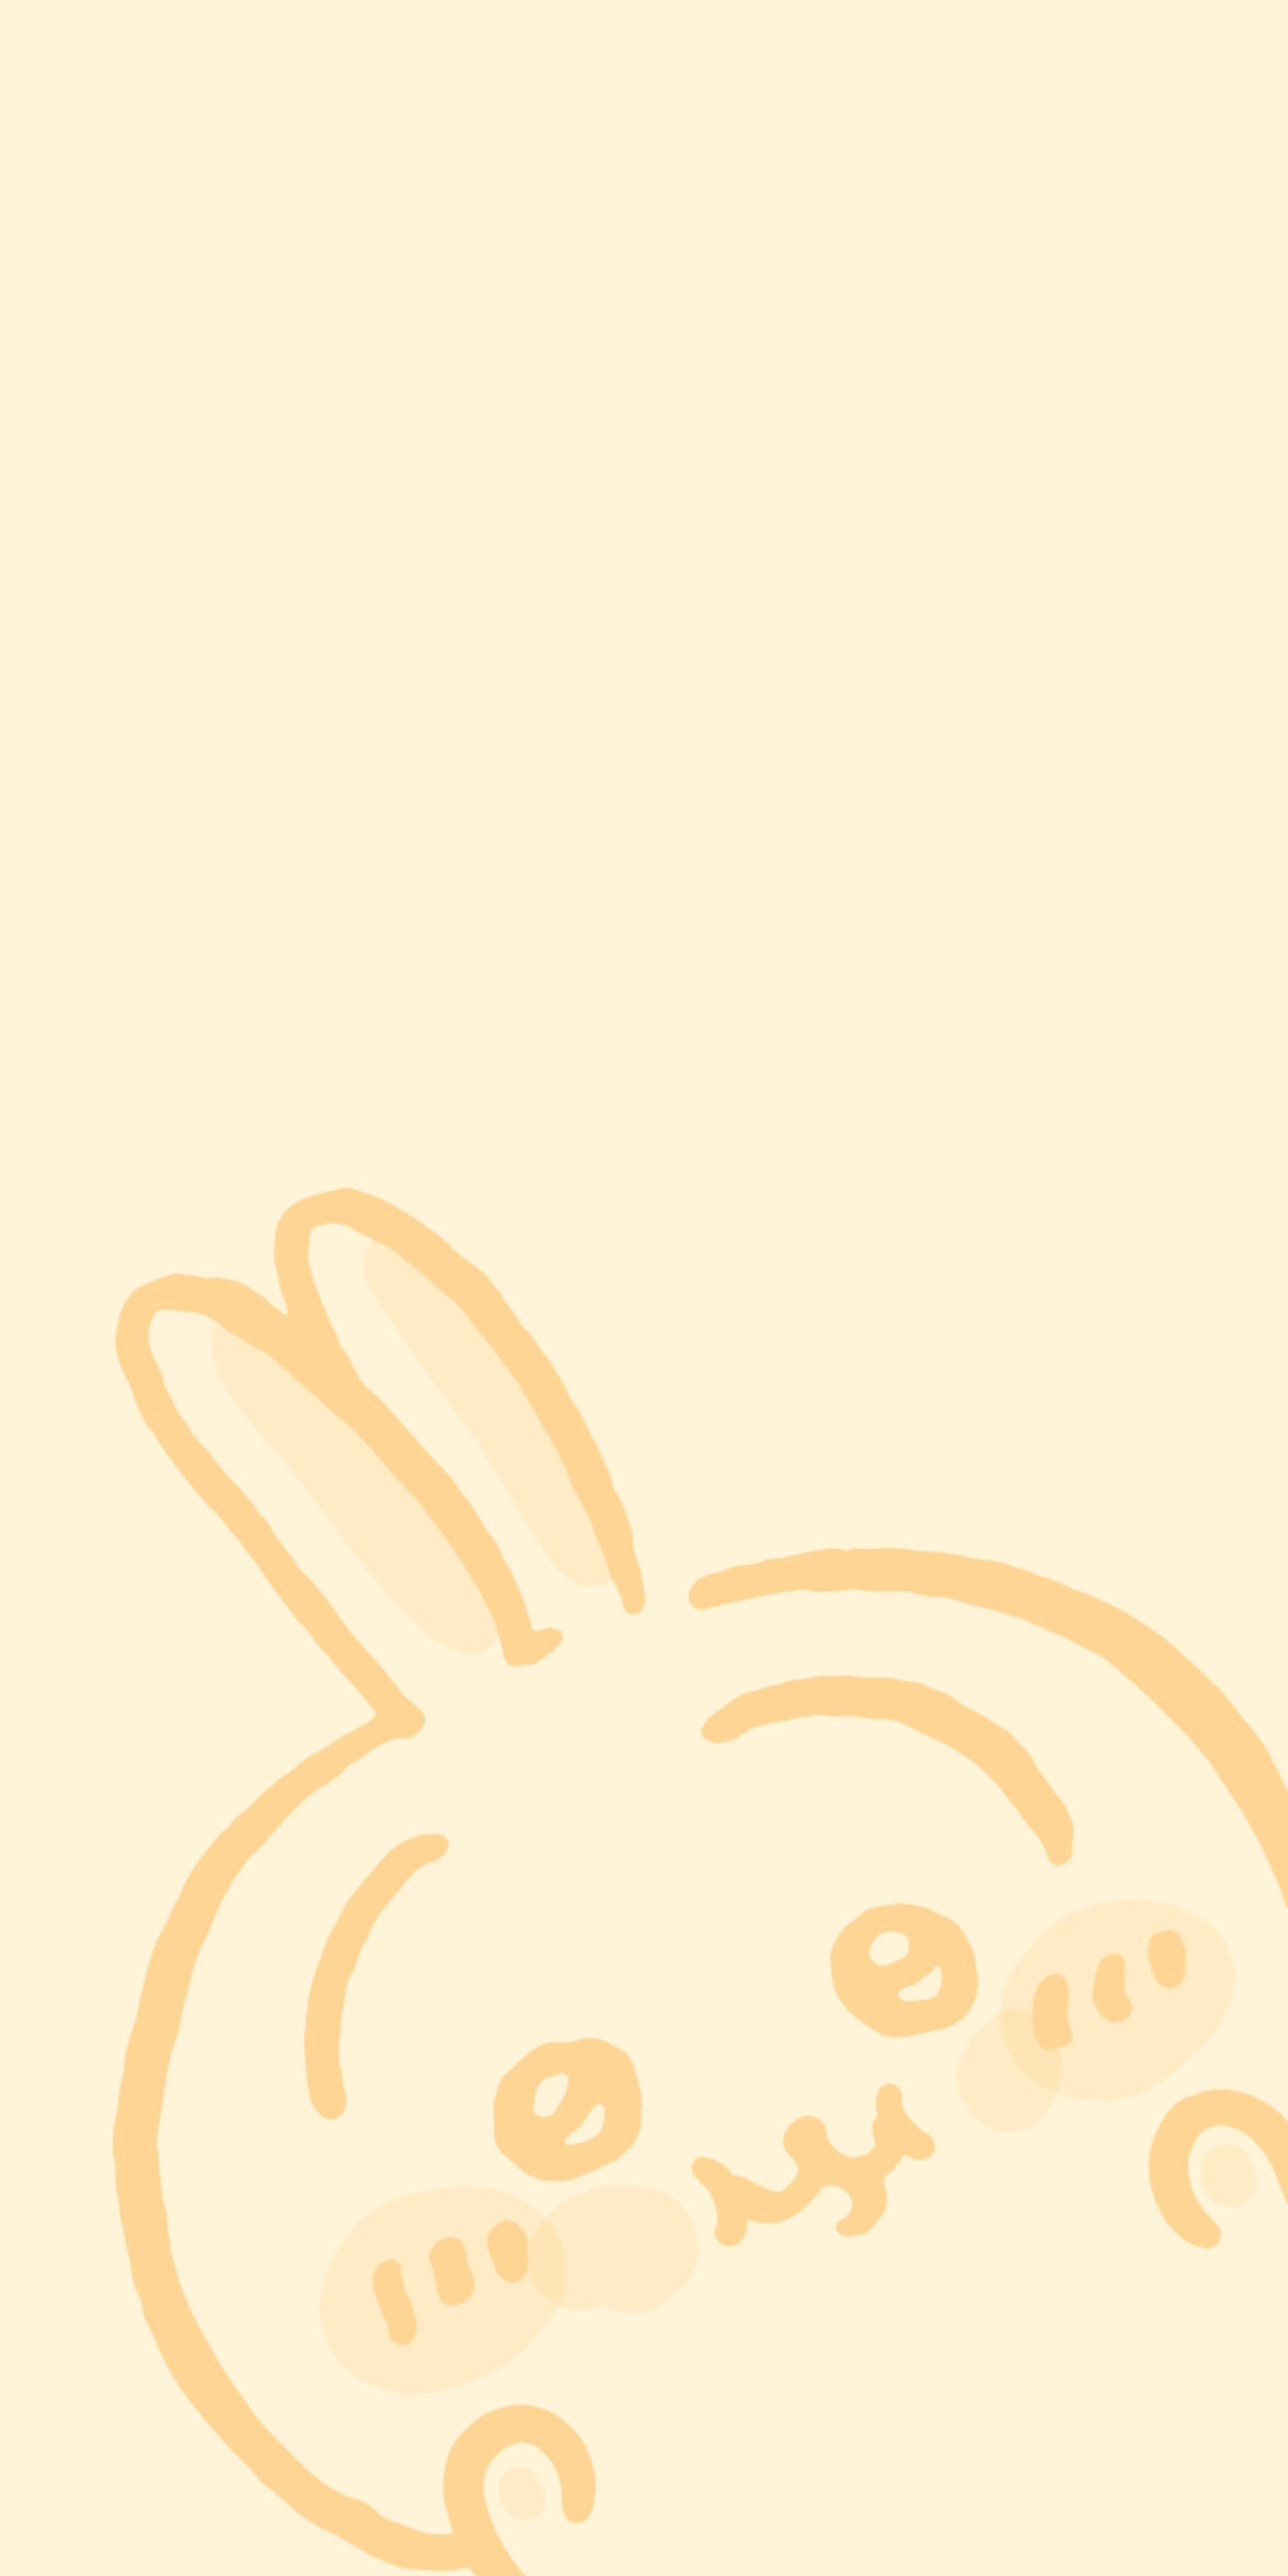
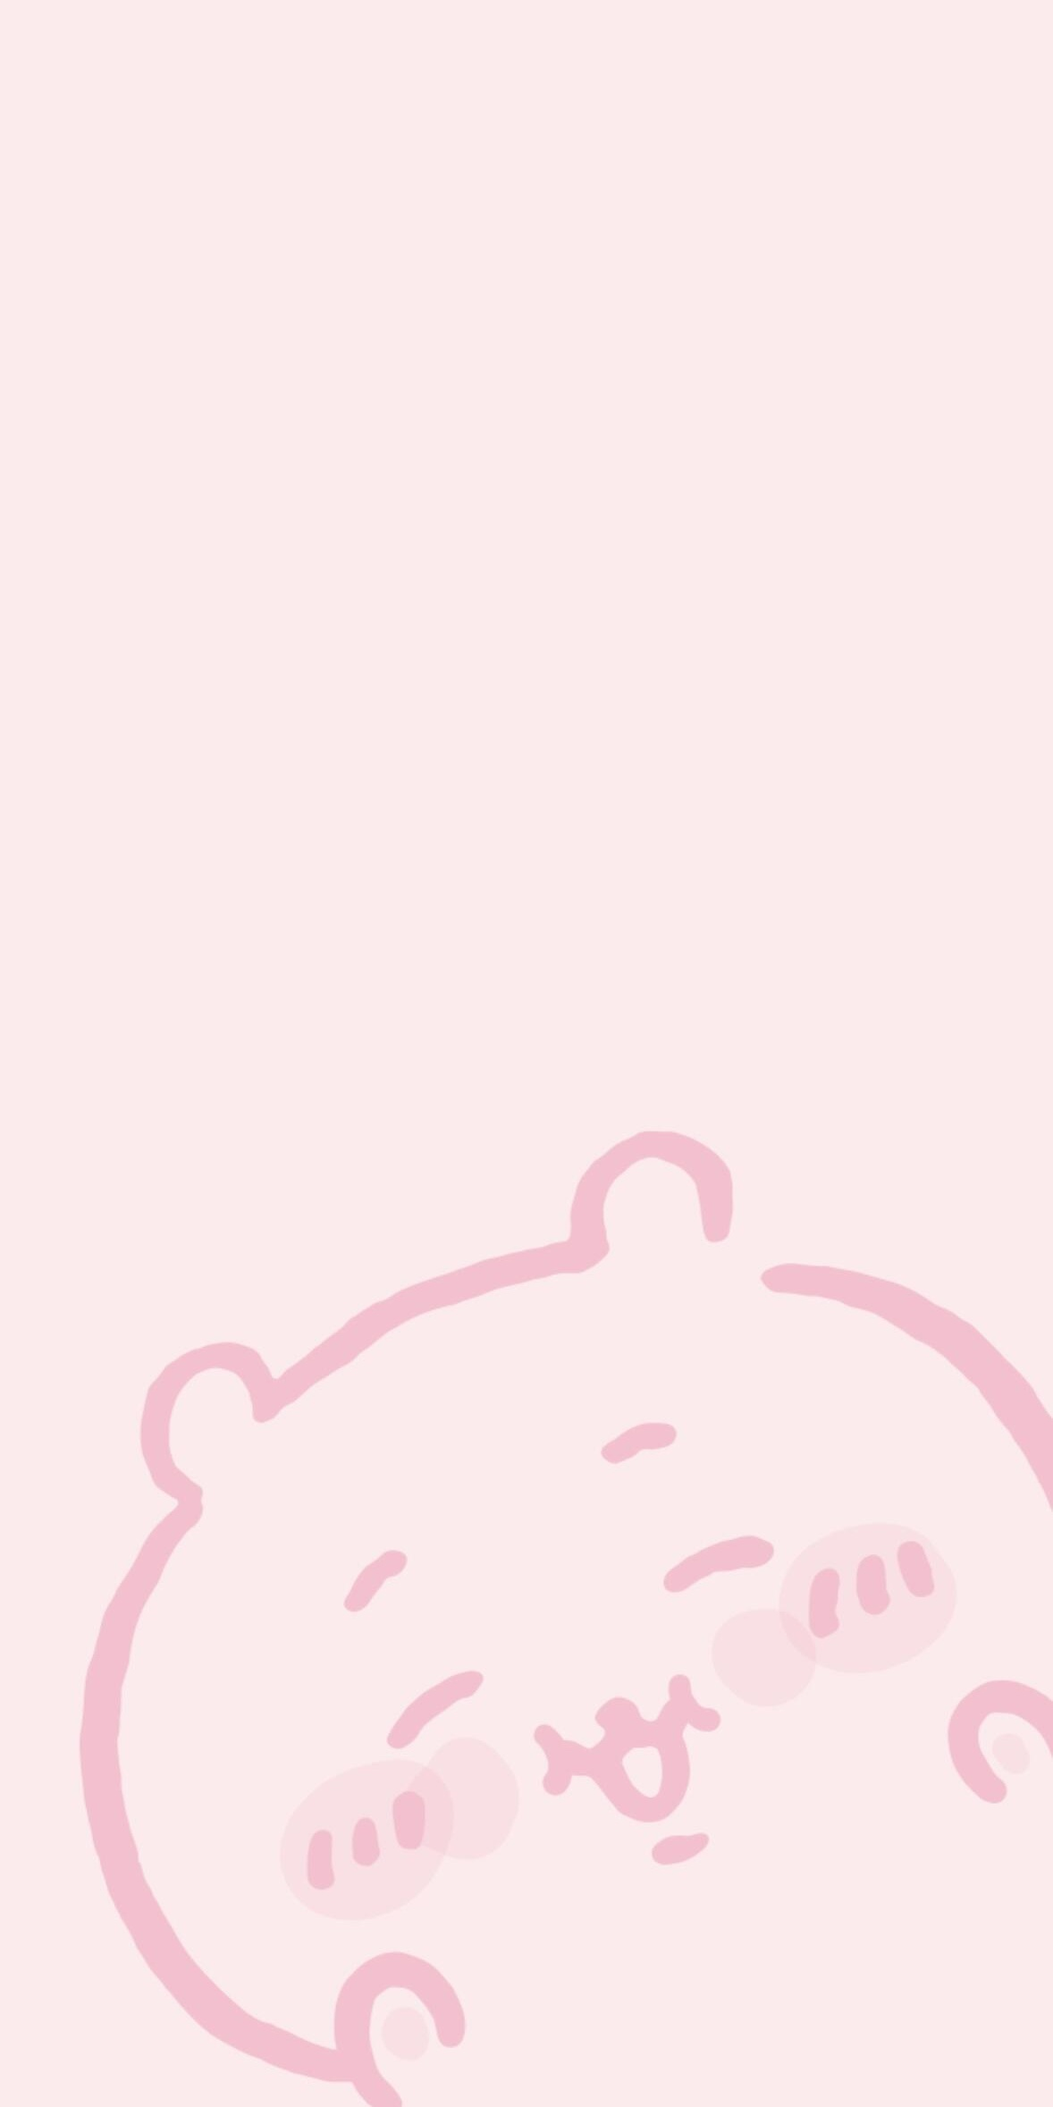
치이카와 테마: 채팅방 배경·첫 화면 교체, 가로 첫 화면은 잘리지 않게 배치
Claude-Session: https://claude.ai/code/session_01LwbuasUuUkD9mihd6ZAb4P

Changed region(s): [[0.0611, 0.4338, 1.0, 1.0], [0.2139, 0.7126, 0.3973, 0.8366]]

diff --git a/scripts/apply_images.py b/scripts/apply_images.py
@@ -71,7 +71,12 @@ for key, targets in FULL.items():
         continue
     src = load(p)
     for folder, w, h in targets:
-        if key == "background":
+        if key == "splash" and w > h:
+            # 가로 화면 첫 화면: 잘리지 않게 세로 그림을 가운데 두고 양옆은 가장자리 색으로 채움
+            img = Image.new("RGBA", (w, h), src.convert("RGB").getpixel((5, 5)) + (255,))
+            fit = ImageOps.contain(src, (w, h), Image.LANCZOS)
+            img.alpha_composite(fit, ((w - fit.width) // 2, (h - fit.height) // 2))
+        elif key == "background":
             # 카톡은 목록 배경을 화면 너비에 맞추고 하단(탭 바 위)에 붙여서 보여줌 → 비율 유지
             img = src.resize((w, round(w * src.height / src.width)), Image.LANCZOS)
         else:
